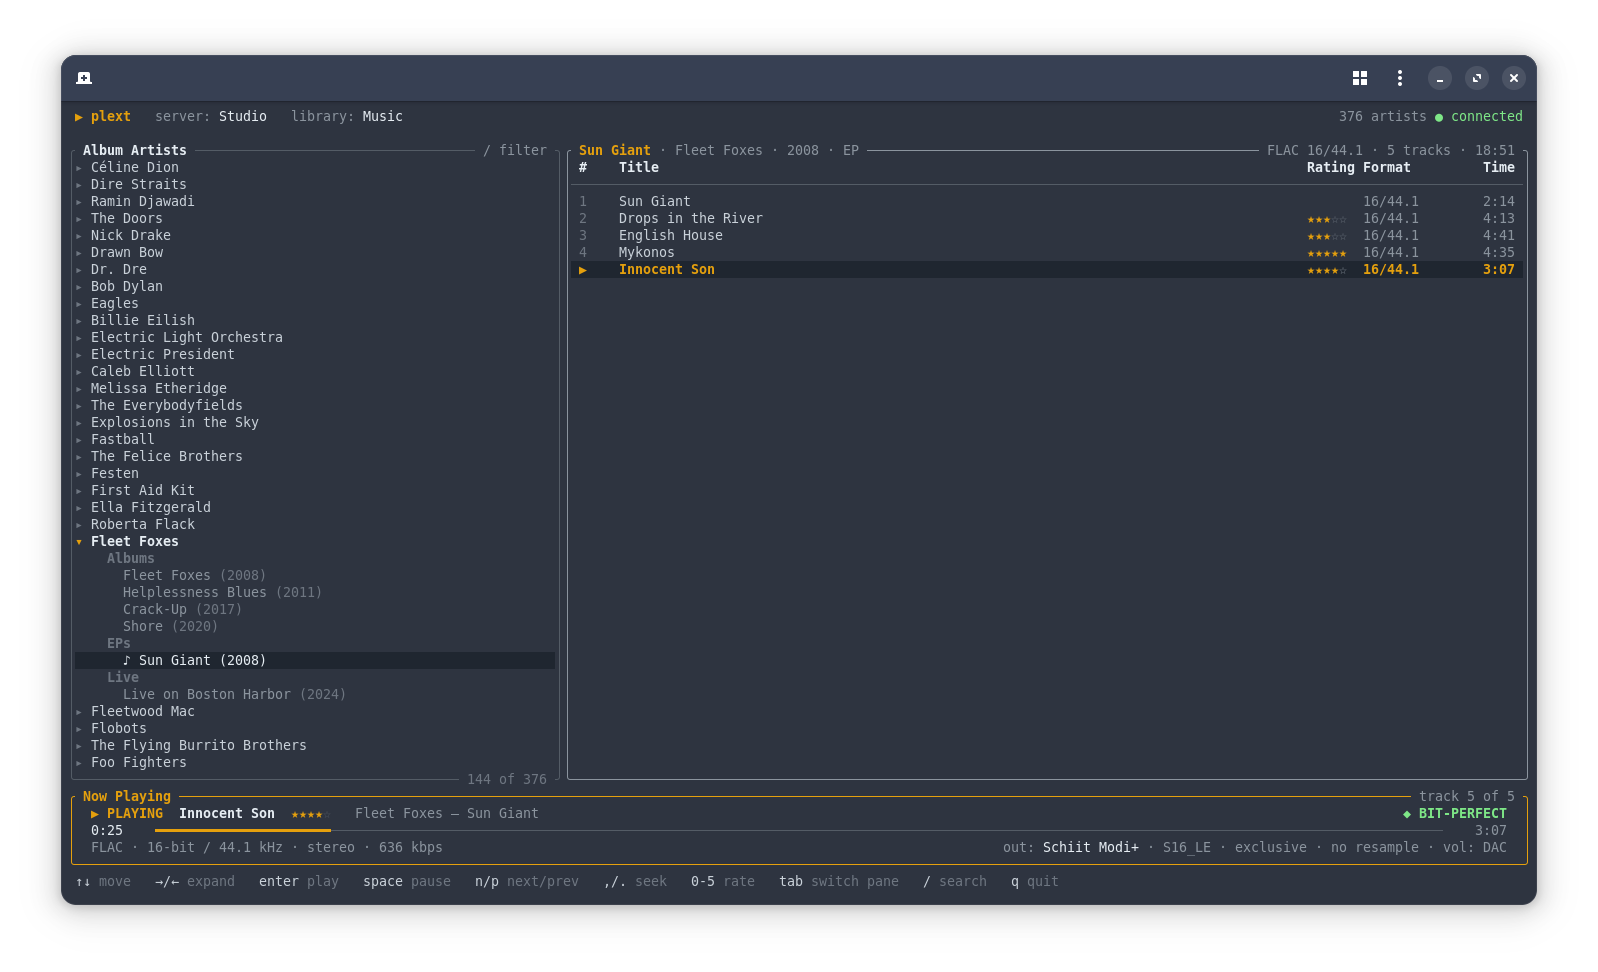
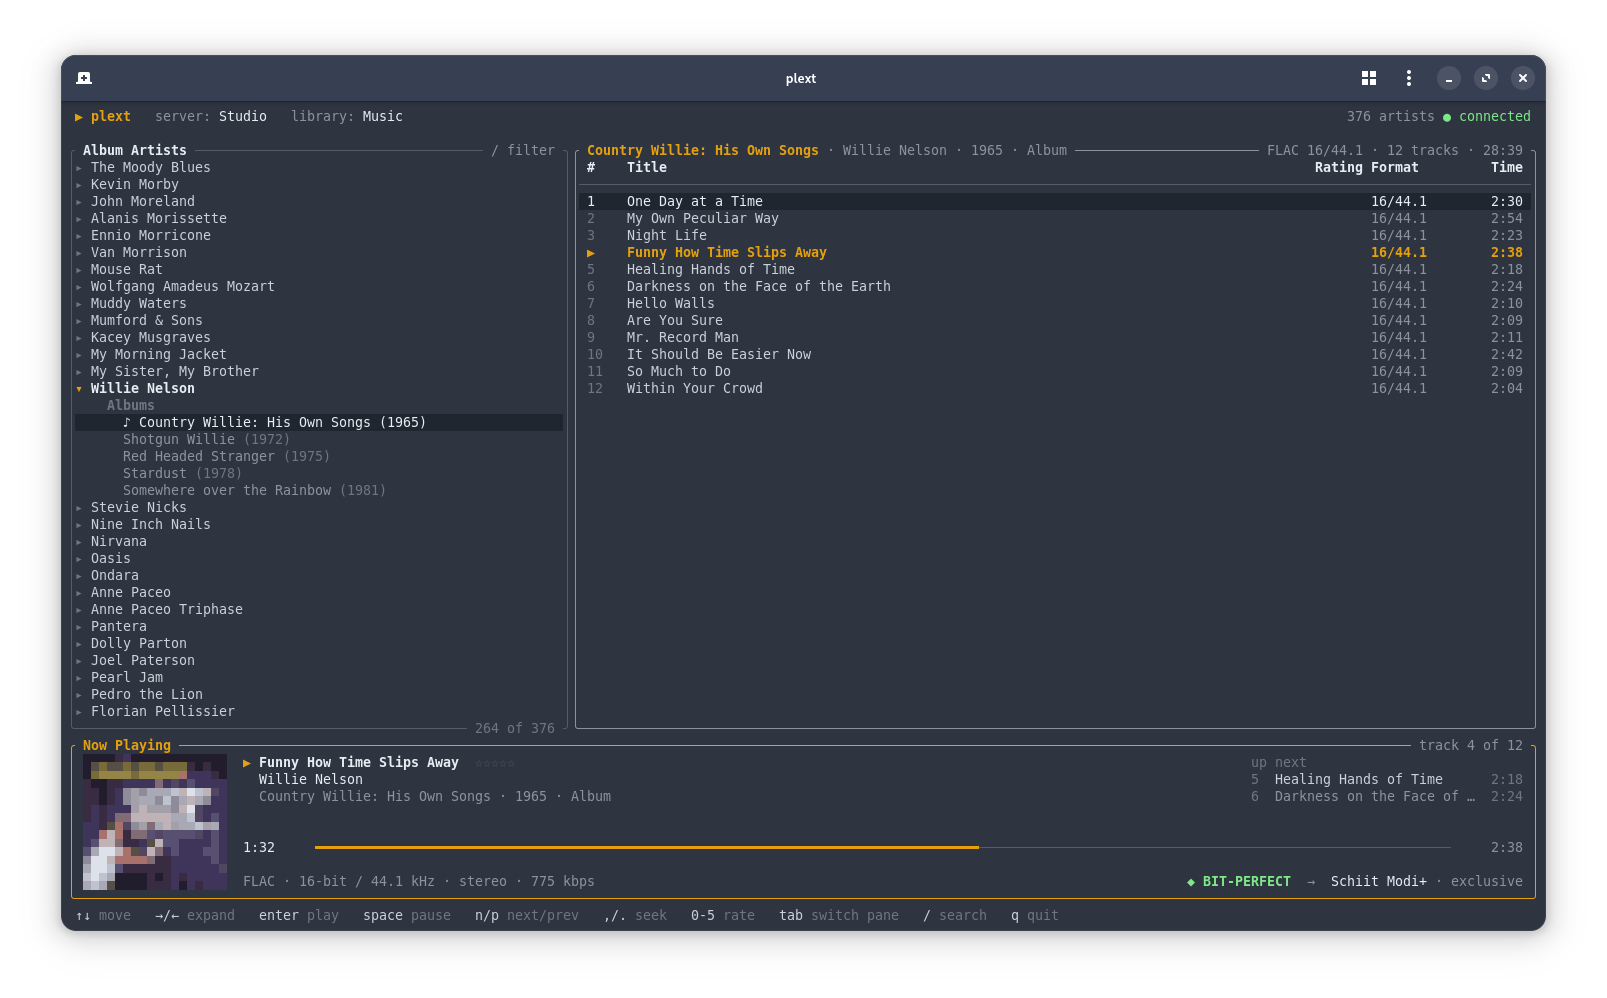
Update the screenshot for 0.5.0
Shows the new now-playing area: the album cover as pixel art, the track
details, "up next", and the bit-perfect output line.

Claude-Session: https://claude.ai/code/session_01LcX2VPWWmXpRfaWhHHV8H7

diff --git a/README.md b/README.md
@@ -4,7 +4,7 @@ A terminal music player for Plex with bit-perfect playback straight to your DAC.
 Browse your album artists and albums, stream lossless and high-res audio untouched,
 all from a single static binary for Linux.
 
-![Plext playing a 16-bit/44.1 kHz FLAC EP bit-perfect through a USB DAC, with track ratings](docs/screenshot.png)
+![Plext playing a 16-bit/44.1 kHz FLAC album bit-perfect through a USB DAC, with the album cover as pixel art and the next two tracks up next](docs/screenshot.png)
 
 ## Features
 
